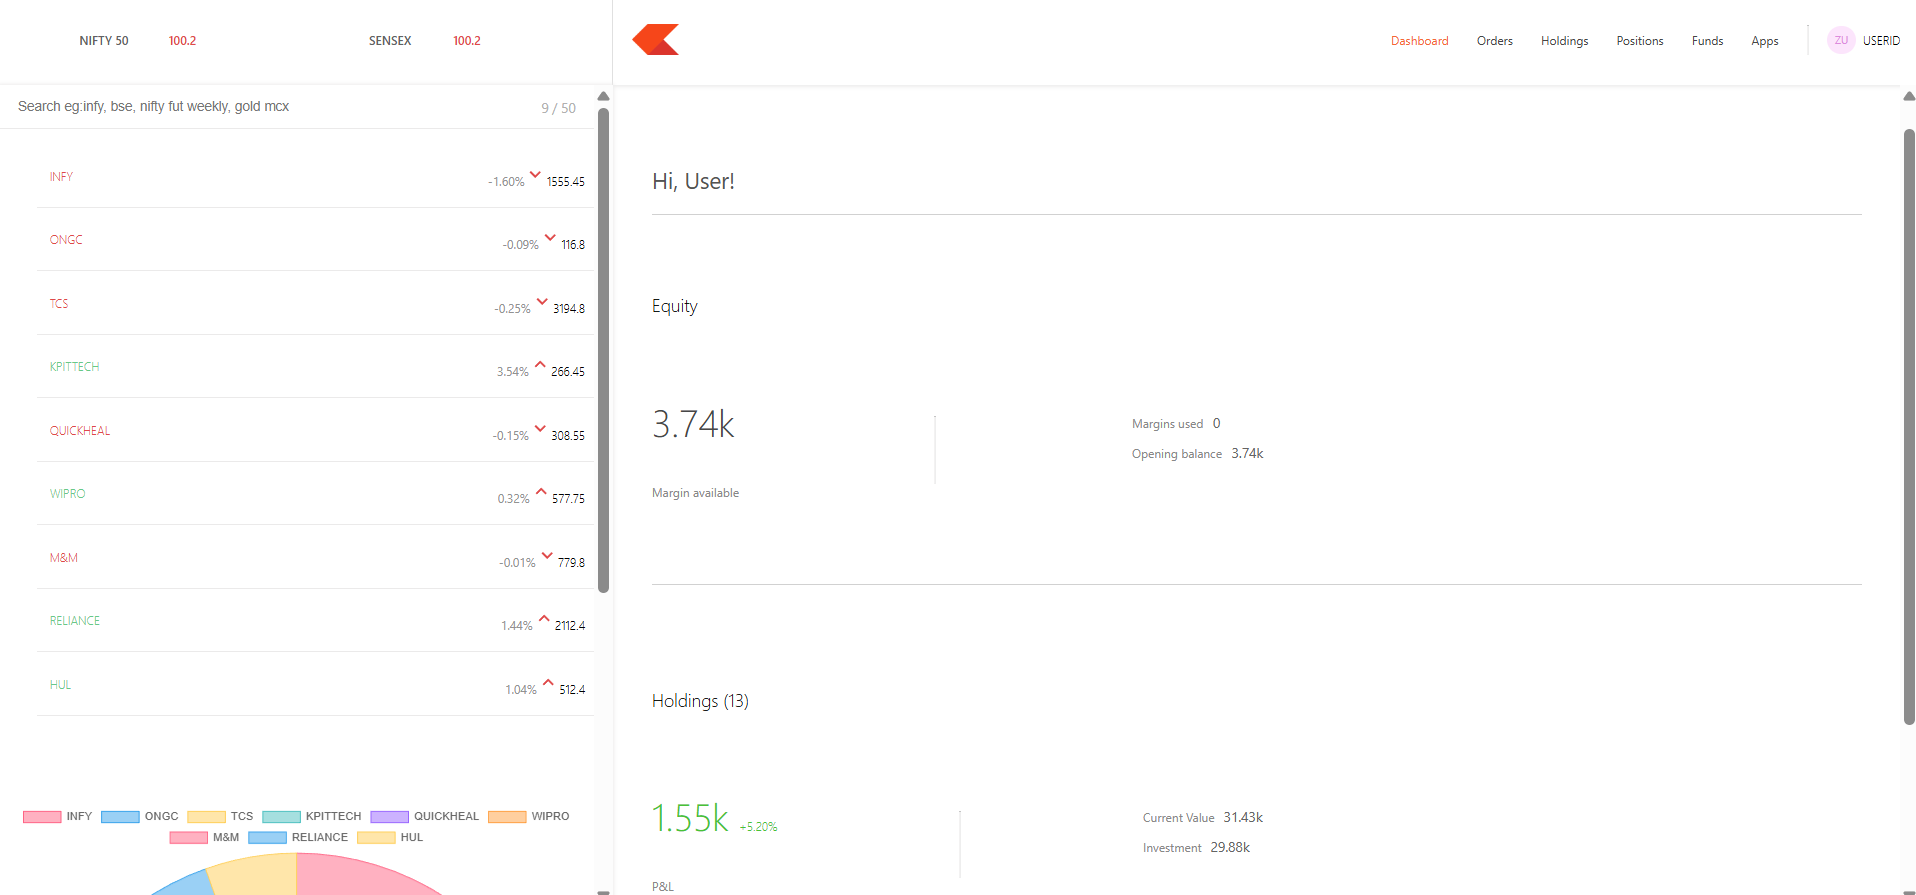
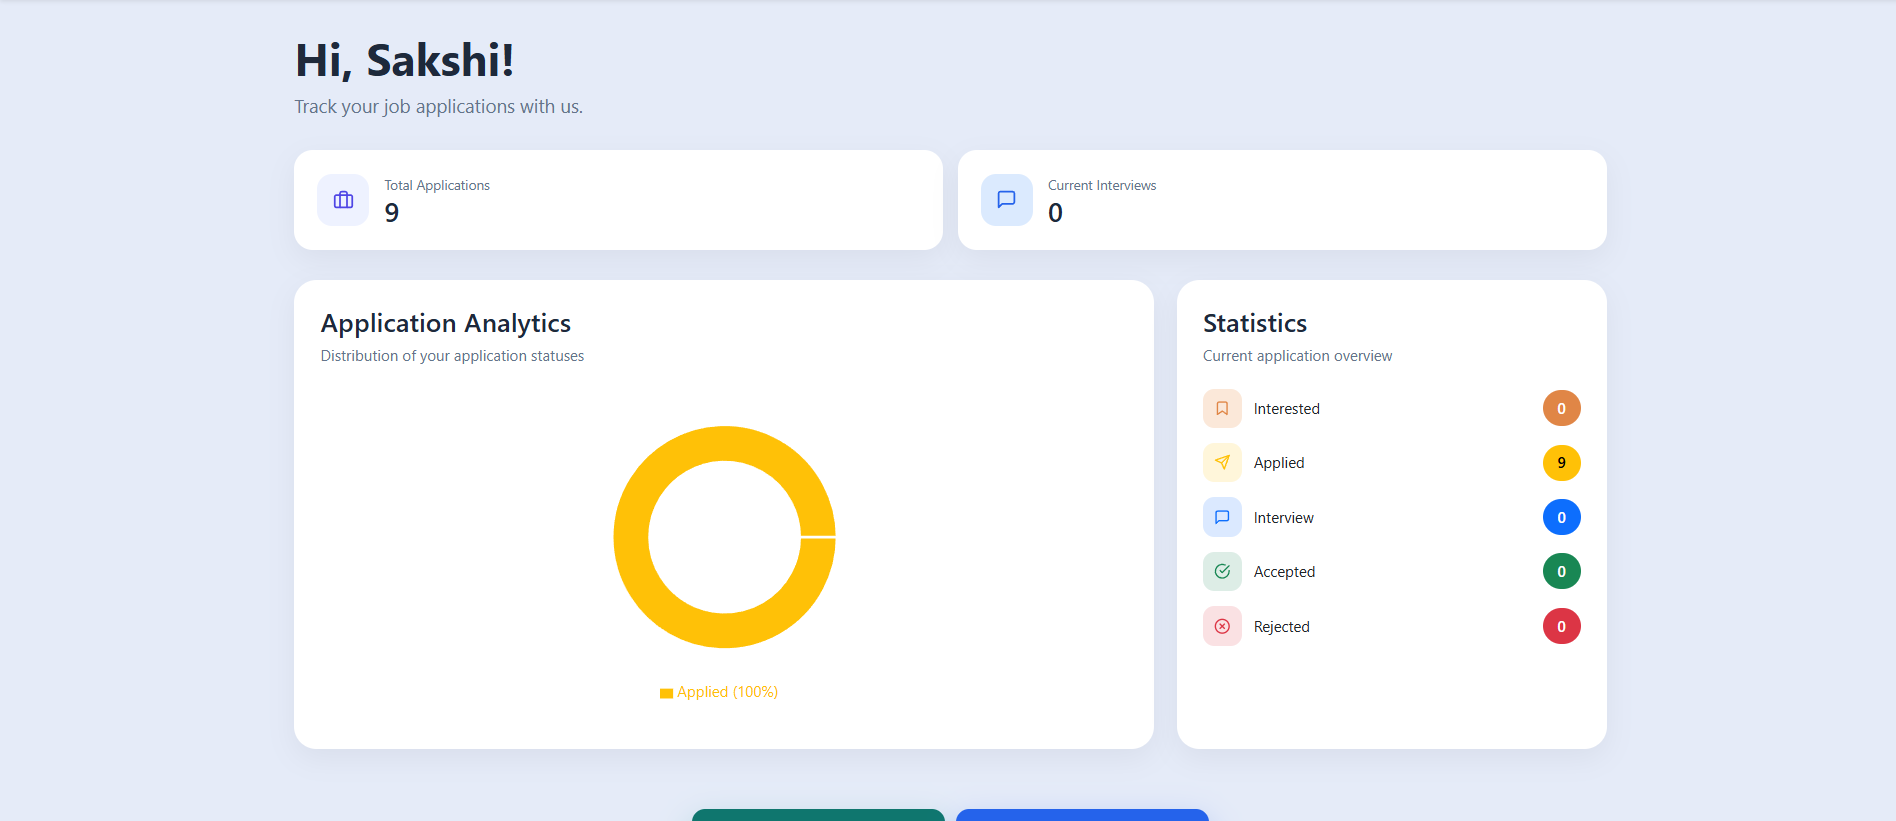
Improved README file

diff --git a/README.md b/README.md
@@ -106,19 +106,19 @@ project/
 ![Dashboard](Screenshots/dashboard.png)
 
 ### Jobs Page
-![Jobs](screenshots/Job-Cards.png)
+![Jobs](Screenshots/Job-Cards.png)
 
 ### Analytics
-![Resume Analysis](screenshots/Resume_analysis.png)
+![Resume Analysis](Screenshots/Resume_analysis.png)
 
 ### Add-Job
-![AI Chat](screenshots/Add-New_Job.png)
+![AI Chat](Screenshots/Add-New_Job.png)
 
 ### Interview-Questions
-![Interview-Questions](screenshots/AI_Generated_Questions.png)
+![Interview-Questions](Screenshots/AI_Generated_Questions.png)
 
 ### Login-Page
-![Login-page](screenshots/Login_page.png)
+![Login-page](Screenshots/Login_page.png)
 
 ---
 